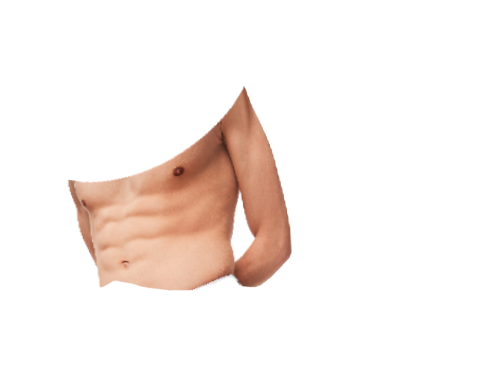
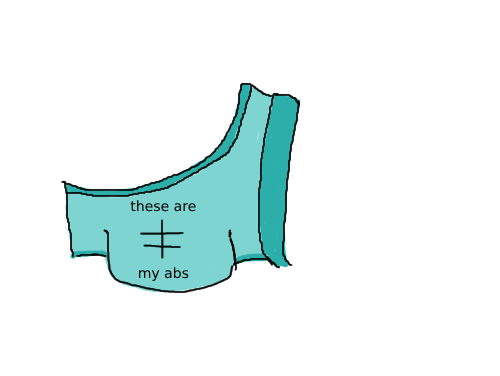
Added additional warning to players above 85% sanity (the guarenteed kill point) Updated abs cosmetic

Changed region(s): [[0.12, 0.2048, 0.6, 0.7899]]

diff --git a/helper.js b/helper.js
@@ -199,23 +199,18 @@ async function changeSanity(user_data, user_stats, interaction, balance, sanity)
 			.setColor(0xff293b)
 			.setTitle(`Something doesn't feel right...`)
 			.setDescription(`You've gone insane! Either wait some time or take a Sanity Pill!`);
-		await interaction.followUp({embeds:[insaneEmbed],ephemeral:true});
+			await interaction.followUp({embeds:[insaneEmbed],ephemeral:true});
+	}
+	if(user_stats.sanity <= -85 && prev_sanity > -85){
+		const insaneEmbed = new EmbedBuilder()
+			.setColor(0xff293b)
+			.setTitle(`You're at Death's Door!`)
+			.setDescription(`One more bet and it could spell your doom! You REALLY should consider a Sanity Pill!`);
+			await interaction.followUp({embeds:[insaneEmbed],ephemeral:true});
 	}
 	//test user death and save data
 	if(user_stats.sanity < -100){
-		if(prev_sanity >= 0 && user_stats.level <= 30){
-			user_stats.sanity = -99;
-			const insaneEmbed = new EmbedBuilder()
-				.setColor(0xff293b)
-				.setTitle(`You nearly died!`)
-				.setDescription(`Betting that much made you sick in the head! Take a break for a bit before betting again!`);
-			await interaction.followUp({embeds:[insaneEmbed]});
-			user_data.save();
-			user_stats.save();
-		}
-		else{
-			killUser(user_data, user_stats, interaction);
-		}
+		killUser(user_data, user_stats, interaction);
 	}
 	else{
 		user_data.save();
